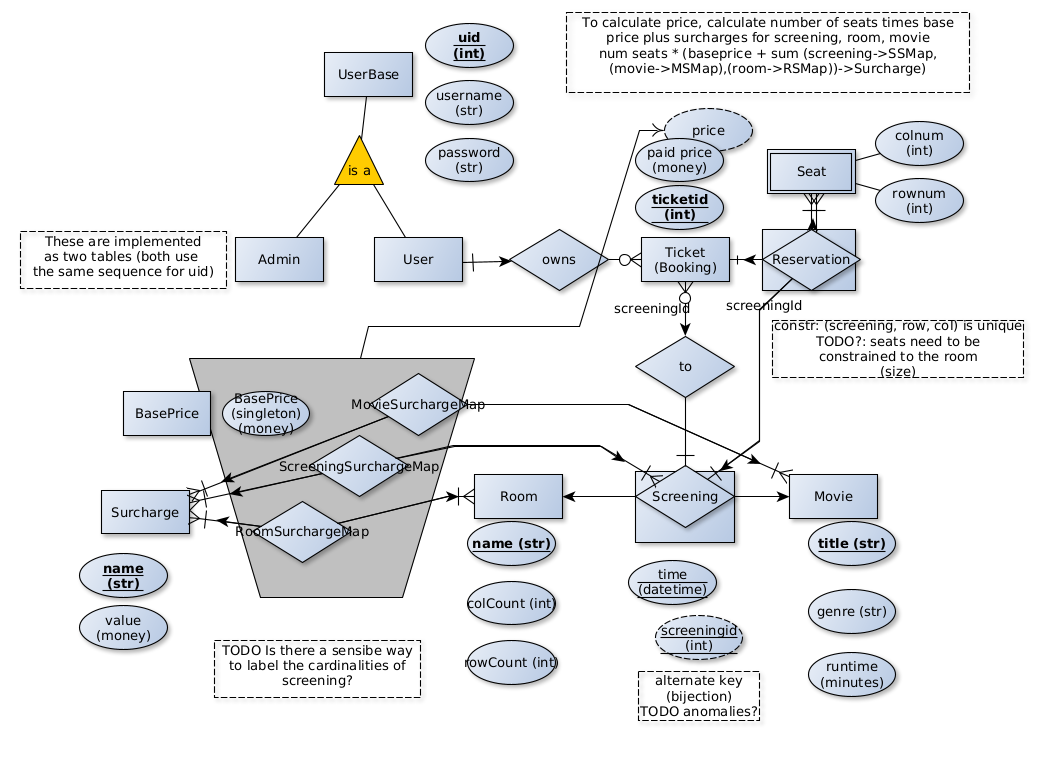
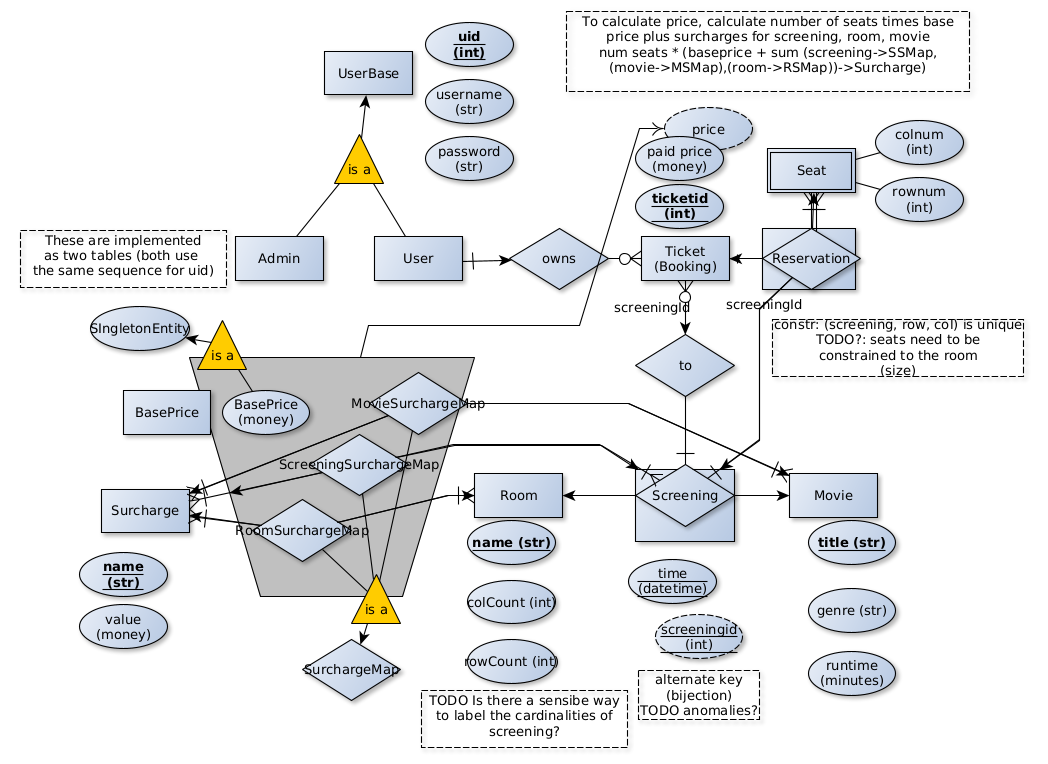
more ER iteration

diff --git a/final/ticket-service/src/main/java/com/epam/training/ticketservice/lib/reservation/persistence/Reservation.java b/final/ticket-service/src/main/java/com/epam/training/ticketservice/lib/reservation/persistence/Reservation.java
@@ -5,13 +5,25 @@ import com.epam.training.ticketservice.lib.screening.persistence.Screening;
 import com.epam.training.ticketservice.lib.seat.persistence.Seat;
 import lombok.Data;
 
-import javax.persistence.*;
+import javax.persistence.Entity;
+import javax.persistence.Id;
+import javax.persistence.Table;
+import javax.persistence.ManyToOne;
+import javax.persistence.UniqueConstraint;
+import java.io.Serializable;
 
 @Data
 @Entity
-@Table(name="reservation")
+// And this is where the abstraction gets leaky...
+//  with unique constraints involving columns/attributes/fields of an @Embedded object
+//  and you apparently can't pass a (public static final) String[] to an annotation because of
+//  compile time things, so I can't even just keep the strings inside the Seat class.
+@Table(
+        name = "reservation",
+        uniqueConstraints = { @UniqueConstraint(columnNames = {"row", "col"}) })
 
-public class Reservation {
+//TODO composite key
+public class Reservation implements Serializable {
     @Id
     @ManyToOne
     public Booking booking;
@@ -20,6 +32,5 @@ public class Reservation {
     @ManyToOne
     public Screening screening;
 
-    @OneToOne
     public Seat seat;
 }

diff --git a/final/ticket-service/src/main/java/com/epam/training/ticketservice/lib/pricing/persistence/SurchargeMap.java b/final/ticket-service/src/main/java/com/epam/training/ticketservice/lib/pricing/persistence/SurchargeMap.java
@@ -1,4 +1,4 @@
-package com.epam.training.ticketservice.lib.user.model;
+package com.epam.training.ticketservice.lib.pricing.persistence;
 
 import lombok.Data;
 
@@ -7,21 +7,19 @@ import javax.persistence.Id;
 import javax.persistence.Inheritance;
 import javax.persistence.InheritanceType;
 import javax.persistence.GeneratedValue;
+import javax.persistence.ManyToOne;
 import javax.persistence.GenerationType;
 import javax.persistence.Column;
 
-//TODO make sure the uid sequence is shared
 @Data
 @Entity
 @Inheritance(strategy = InheritanceType.TABLE_PER_CLASS)
-public class UserBase {
+public class SurchargeMap {
+    // TODO https://stackoverflow.com/questions/1032486/what-is-the-proper-jpa-mapping-for-id-in-parent-and-unique-sequence-in-base-cla
     @Id
     @GeneratedValue(strategy = GenerationType.SEQUENCE)
-    public Long uid;
+    public Long id;
 
-    @Column(nullable = false)
-    public String username;
-
-    @Column(nullable = false)
-    public String password;
+    @ManyToOne
+    public Surcharge surcharge;
 }

diff --git a/final/ticket-service/src/main/java/com/epam/training/ticketservice/lib/screening/persistence/Screening.java b/final/ticket-service/src/main/java/com/epam/training/ticketservice/lib/screening/persistence/Screening.java
@@ -1,12 +1,19 @@
 package com.epam.training.ticketservice.lib.screening.persistence;
 
 
-import javax.persistence.*;
+import javax.persistence.Entity;
+import javax.persistence.Id;
+import javax.persistence.Table;
+import javax.persistence.GeneratedValue;
+import javax.persistence.GenerationType;
+import javax.persistence.Column;
+import javax.persistence.UniqueConstraint;
 
 @Entity
 @Table(
-        name = "screening",
-        uniqueConstraints = { @UniqueConstraint(columnNames = "baseScreening") })
+        name = "screening"
+        //TODO how to figure out names? // uniqueConstraints = { @UniqueConstraint(columnNames = "baseScreening") }
+        )
 public class Screening {
 
     /**
@@ -18,6 +25,6 @@ public class Screening {
     @GeneratedValue(strategy = GenerationType.SEQUENCE)
     public Long screeningId;
 
-    @Column(name ="baseScreening", nullable = false)
+    @Column(nullable = false)
     public BaseScreening screening;
 }

diff --git a/final/ticket-service/src/main/java/com/epam/training/ticketservice/lib/pricing/persistence/BasePrice.java b/final/ticket-service/src/main/java/com/epam/training/ticketservice/lib/pricing/persistence/BasePrice.java
@@ -1,0 +1,24 @@
+package com.epam.training.ticketservice.lib.pricing.persistence;
+
+import com.epam.training.ticketservice.lib.db.SingletonEntity;
+import lombok.Data;
+import lombok.EqualsAndHashCode;
+
+import javax.persistence.Column;
+import javax.persistence.DiscriminatorValue;
+import javax.persistence.Entity;
+import java.util.Currency;
+
+/**
+ * This stores a singleton entity value for the base price.
+ */
+// TODO figure out what the correct setting is here
+//  https://stackoverflow.com/questions/38572566/warning-equals-hashcode-on-lomboks-data-annotation-with-inheritance
+@EqualsAndHashCode(callSuper = true)
+@Data
+@Entity
+@DiscriminatorValue("BasePrice")
+public class BasePrice extends SingletonEntity {
+    @Column(nullable = false)
+    public Currency basePrice;
+}

diff --git a/final/ticket-service/src/main/java/com/epam/training/ticketservice/lib/booking/persistence/Booking.java b/final/ticket-service/src/main/java/com/epam/training/ticketservice/lib/booking/persistence/Booking.java
@@ -5,7 +5,14 @@ import com.epam.training.ticketservice.lib.screening.persistence.Screening;
 import com.epam.training.ticketservice.lib.seat.persistence.Seat;
 import lombok.Data;
 
-import javax.persistence.*;
+
+import javax.persistence.Entity;
+import javax.persistence.Table;
+import javax.persistence.Id;
+import javax.persistence.GeneratedValue;
+import javax.persistence.ManyToOne;
+import javax.persistence.GenerationType;
+import javax.persistence.Column;
 import java.util.Currency;
 import java.util.Set;
 
@@ -22,7 +29,6 @@ public class Booking {
     public Long ticketId;
 
     @ManyToOne
-    @Column(nullable = false)
     public Screening screening;
 
     @Column(nullable = false)

diff --git a/final/ticket-service/src/main/java/com/epam/training/ticketservice/lib/user/model/User.java b/final/ticket-service/src/main/java/com/epam/training/ticketservice/lib/user/model/User.java
@@ -2,13 +2,18 @@ package com.epam.training.ticketservice.lib.user.model;
 
 import com.epam.training.ticketservice.lib.booking.persistence.Booking;
 import lombok.Data;
+import lombok.EqualsAndHashCode;
 
 import javax.persistence.Entity;
 import javax.persistence.OneToMany;
 import javax.persistence.Table;
 import java.util.Set;
 
+// TODO figure out what the correct setting is here
+//  https://stackoverflow.com/questions/38572566/warning-equals-hashcode-on-lomboks-data-annotation-with-inheritance
+@EqualsAndHashCode(callSuper = true)
 @Data
+
 @Entity
 @Table(name = "appUser")
 public class User extends UserBase {

diff --git a/final/ticket-service/src/main/java/com/epam/training/ticketservice/lib/seat/persistence/Seat.java b/final/ticket-service/src/main/java/com/epam/training/ticketservice/lib/seat/persistence/Seat.java
@@ -3,12 +3,18 @@ package com.epam.training.ticketservice.lib.seat.persistence;
 import com.epam.training.ticketservice.lib.room.persistence.Room;
 import lombok.Data;
 
-import javax.persistence.*;
+import javax.persistence.Embeddable;
 import java.io.Serializable;
 
 @Data
 @Embeddable
 public class Seat implements Serializable {
+    /* See Reservation
+    // So we can use UniqueConstraint without depending on string literals not changing
+    // TODO some kind of reflection for this?
+    public static final String[] columnNames = {"row", "col"};
+    */
+
     public Integer row;
     public Integer col;
 }

diff --git a/final/ticket-service/src/main/java/com/epam/training/ticketservice/lib/pricing/persistence/ScreeningSurchargeMap.java b/final/ticket-service/src/main/java/com/epam/training/ticketservice/lib/pricing/persistence/ScreeningSurchargeMap.java
@@ -1,0 +1,17 @@
+package com.epam.training.ticketservice.lib.pricing.persistence;
+
+import com.epam.training.ticketservice.lib.screening.persistence.Screening;
+import lombok.Data;
+import lombok.EqualsAndHashCode;
+
+import javax.persistence.Column;
+import javax.persistence.ManyToOne;
+
+// TODO figure out what the correct setting is here
+//  https://stackoverflow.com/questions/38572566/warning-equals-hashcode-on-lomboks-data-annotation-with-inheritance
+@EqualsAndHashCode(callSuper = true)
+@Data
+public class ScreeningSurchargeMap extends SurchargeMap {
+    @ManyToOne
+    public Screening screening;
+}

diff --git a/final/ticket-service/src/main/java/com/epam/training/ticketservice/lib/pricing/persistence/MovieSurchargeMap.java b/final/ticket-service/src/main/java/com/epam/training/ticketservice/lib/pricing/persistence/MovieSurchargeMap.java
@@ -1,0 +1,17 @@
+package com.epam.training.ticketservice.lib.pricing.persistence;
+
+import com.epam.training.ticketservice.lib.movie.persistence.Movie;
+import lombok.Data;
+import lombok.EqualsAndHashCode;
+
+import javax.persistence.Column;
+import javax.persistence.ManyToOne;
+
+// TODO figure out what the correct setting is here
+//  https://stackoverflow.com/questions/38572566/warning-equals-hashcode-on-lomboks-data-annotation-with-inheritance
+@EqualsAndHashCode(callSuper = true)
+@Data
+public class MovieSurchargeMap extends SurchargeMap {
+    @ManyToOne
+    public Movie movie;
+}

diff --git a/final/ticket-service/src/main/java/com/epam/training/ticketservice/lib/pricing/persistence/RoomSurchargeMap.java b/final/ticket-service/src/main/java/com/epam/training/ticketservice/lib/pricing/persistence/RoomSurchargeMap.java
@@ -1,0 +1,17 @@
+package com.epam.training.ticketservice.lib.pricing.persistence;
+
+import com.epam.training.ticketservice.lib.room.persistence.Room;
+import lombok.Data;
+import lombok.EqualsAndHashCode;
+
+import javax.persistence.Column;
+import javax.persistence.ManyToOne;
+
+// TODO figure out what the correct setting is here
+//  https://stackoverflow.com/questions/38572566/warning-equals-hashcode-on-lomboks-data-annotation-with-inheritance
+@EqualsAndHashCode(callSuper = true)
+@Data
+public class RoomSurchargeMap extends SurchargeMap {
+    @ManyToOne
+    public Room room;
+}

diff --git a/final/ticket-service/src/main/java/com/epam/training/ticketservice/lib/db/SingletonEntity.java b/final/ticket-service/src/main/java/com/epam/training/ticketservice/lib/db/SingletonEntity.java
@@ -1,0 +1,19 @@
+package com.epam.training.ticketservice.lib.db;
+
+import lombok.Data;
+
+import javax.persistence.Entity;
+import javax.persistence.Id;
+import javax.persistence.Inheritance;
+import javax.persistence.InheritanceType;
+import javax.persistence.DiscriminatorColumn;
+
+// This could end up with a lot of columns if this wasn't just a toy application.
+@Data
+@Entity
+@Inheritance(strategy = InheritanceType.SINGLE_TABLE)
+@DiscriminatorColumn(name = "Attribute")
+public class SingletonEntity {
+    @Id
+    public String attrName;
+}

diff --git a/final/ticket-service/src/main/java/com/epam/training/ticketservice/lib/pricing/persistence/Surcharge.java b/final/ticket-service/src/main/java/com/epam/training/ticketservice/lib/pricing/persistence/Surcharge.java
@@ -1,0 +1,20 @@
+package com.epam.training.ticketservice.lib.pricing.persistence;
+
+import lombok.Data;
+
+import javax.persistence.Column;
+import javax.persistence.Entity;
+import javax.persistence.Id;
+import javax.persistence.Table;
+import java.util.Currency;
+
+@Data
+@Entity
+@Table(name = "surcharge")
+public class Surcharge {
+    @Id
+    public String name;
+
+    @Column(nullable = false)
+    public Currency value;
+}
